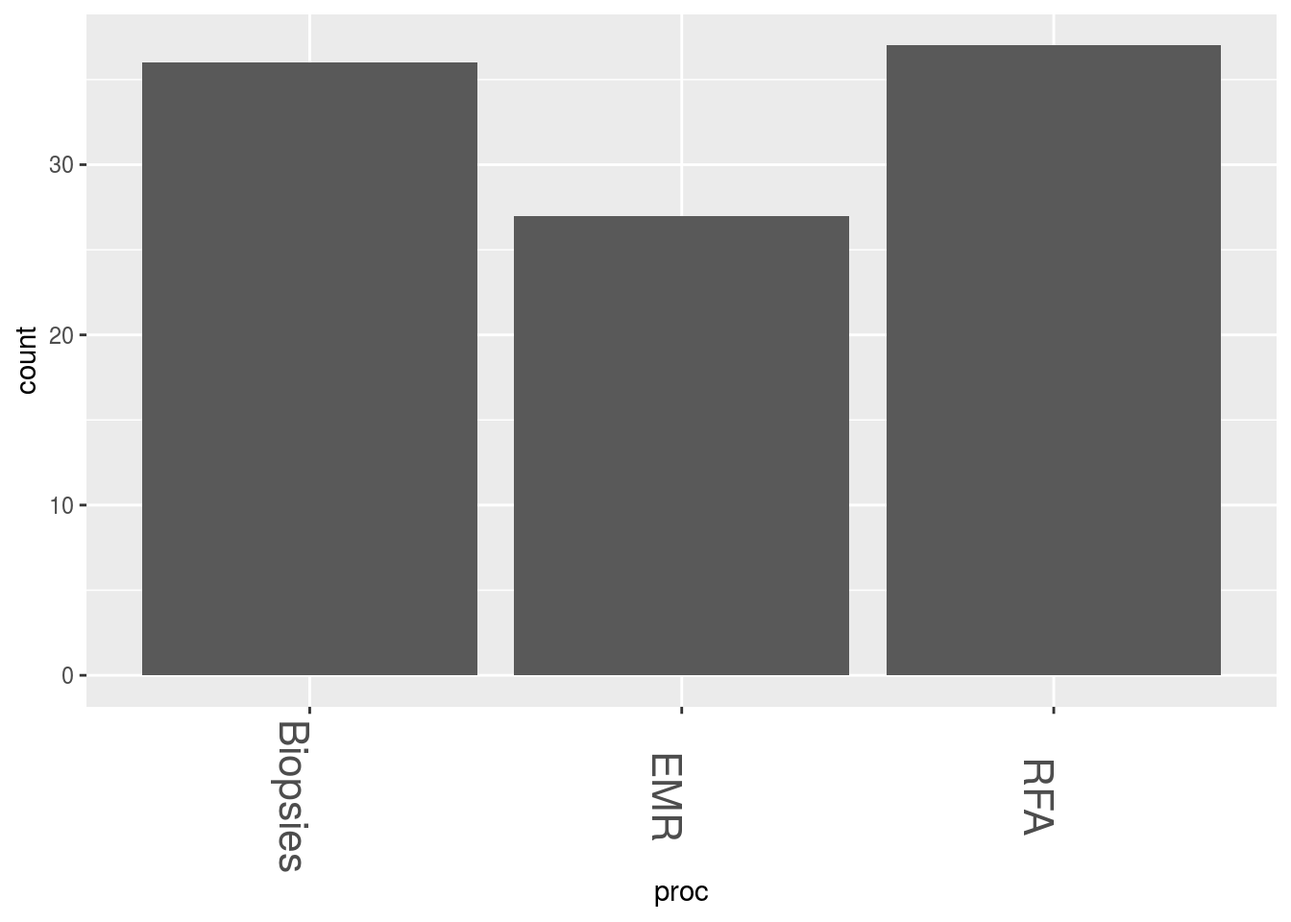
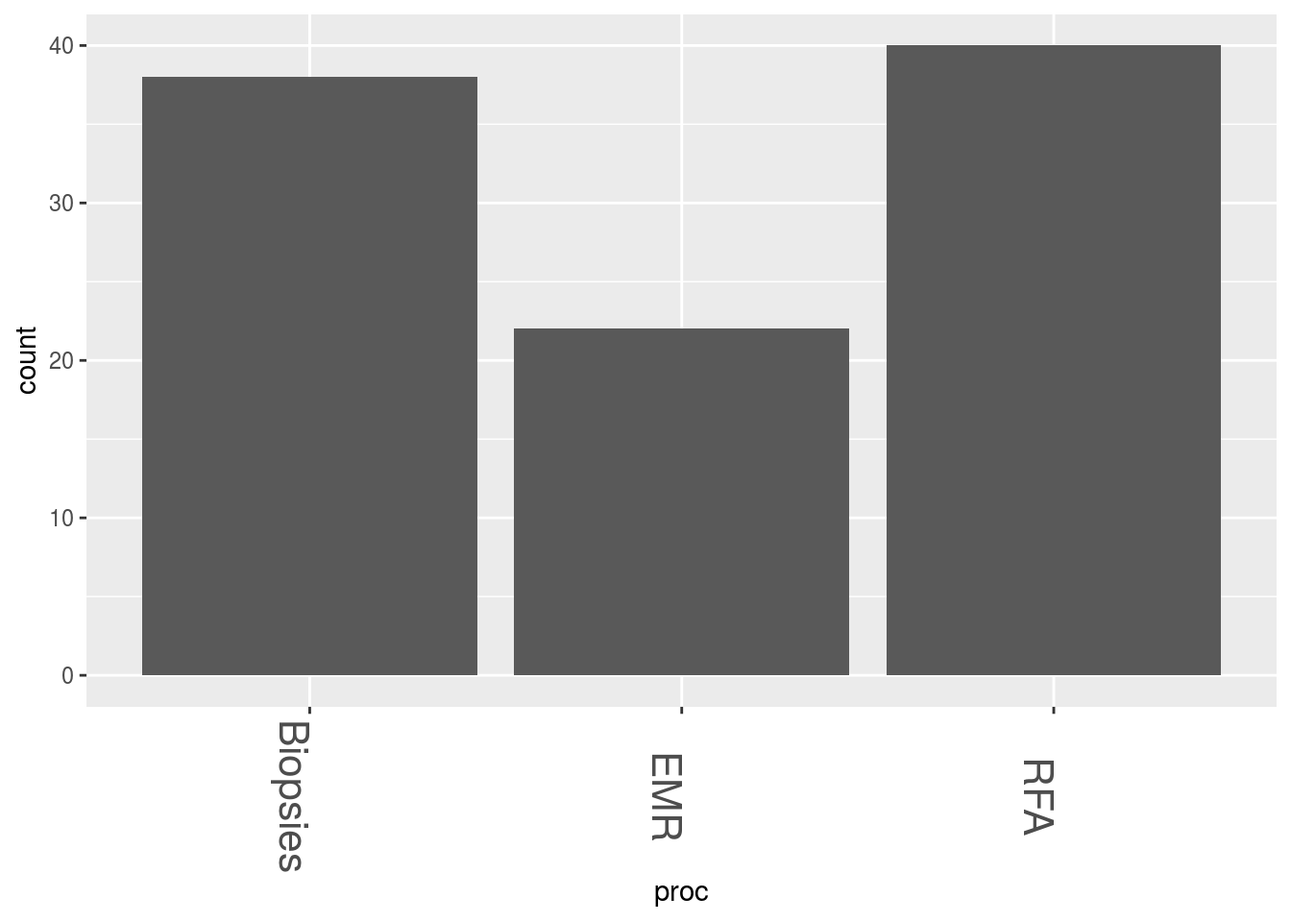
More here

diff --git a/docs/DataVisualisationsggplot.html b/docs/DataVisualisationsggplot.html
@@ -465,10 +465,10 @@ avg
 2013
 </td>
 <td style="text-align:right;">
-26
+25
 </td>
 <td style="text-align:right;">
-17.84615
+20.44000
 </td>
 </tr>
 <tr>
@@ -476,10 +476,10 @@ avg
 2014
 </td>
 <td style="text-align:right;">
-27
+23
 </td>
 <td style="text-align:right;">
-21.70370
+17.95652
 </td>
 </tr>
 <tr>
@@ -487,10 +487,10 @@ avg
 2015
 </td>
 <td style="text-align:right;">
-17
+26
 </td>
 <td style="text-align:right;">
-19.00000
+23.84615
 </td>
 </tr>
 <tr>
@@ -498,10 +498,10 @@ avg
 2016
 </td>
 <td style="text-align:right;">
-24
+21
 </td>
 <td style="text-align:right;">
-19.25000
+24.19048
 </td>
 </tr>
 <tr>
@@ -509,10 +509,10 @@ avg
 2017
 </td>
 <td style="text-align:right;">
-6
+5
 </td>
 <td style="text-align:right;">
-17.66667
+18.20000
 </td>
 </tr>
 </tbody>
@@ -589,8 +589,8 @@ Tots2$proc &lt;- factor(Tots2$proc, levels=c(&quot;EMR&quot;, &quot;Biopsies&quo
 <pre class="r"><code>library(dygraphs)
 dygraph(nhtemp, main = &quot;New Haven Temperatures&quot;) %&gt;% 
   dyRangeSelector(dateWindow = c(&quot;1920-01-01&quot;, &quot;1960-01-01&quot;))</code></pre>
-<div id="htmlwidget-75bc4059a6bbdcd897e7" style="width:672px;height:480px;" class="dygraphs html-widget"></div>
-<script type="application/json" data-for="htmlwidget-75bc4059a6bbdcd897e7">{"x":{"attrs":{"title":"New Haven Temperatures","labels":["year","V1"],"legend":"auto","retainDateWindow":false,"axes":{"x":{"pixelsPerLabel":60}},"showRangeSelector":true,"dateWindow":["1920-01-01T00:00:00.000Z","1960-01-01T00:00:00.000Z"],"rangeSelectorHeight":40,"rangeSelectorPlotFillColor":" #A7B1C4","rangeSelectorPlotStrokeColor":"#808FAB","interactionModel":"Dygraph.Interaction.defaultModel"},"scale":"yearly","annotations":[],"shadings":[],"events":[],"format":"date","data":[["1912-01-01T00:00:00.000Z","1913-01-01T00:00:00.000Z","1914-01-01T00:00:00.000Z","1915-01-01T00:00:00.000Z","1916-01-01T00:00:00.000Z","1917-01-01T00:00:00.000Z","1918-01-01T00:00:00.000Z","1919-01-01T00:00:00.000Z","1920-01-01T00:00:00.000Z","1921-01-01T00:00:00.000Z","1922-01-01T00:00:00.000Z","1923-01-01T00:00:00.000Z","1924-01-01T00:00:00.000Z","1925-01-01T00:00:00.000Z","1926-01-01T00:00:00.000Z","1927-01-01T00:00:00.000Z","1928-01-01T00:00:00.000Z","1929-01-01T00:00:00.000Z","1930-01-01T00:00:00.000Z","1931-01-01T00:00:00.000Z","1932-01-01T00:00:00.000Z","1933-01-01T00:00:00.000Z","1934-01-01T00:00:00.000Z","1935-01-01T00:00:00.000Z","1936-01-01T00:00:00.000Z","1937-01-01T00:00:00.000Z","1938-01-01T00:00:00.000Z","1939-01-01T00:00:00.000Z","1940-01-01T00:00:00.000Z","1941-01-01T00:00:00.000Z","1942-01-01T00:00:00.000Z","1943-01-01T00:00:00.000Z","1944-01-01T00:00:00.000Z","1945-01-01T00:00:00.000Z","1946-01-01T00:00:00.000Z","1947-01-01T00:00:00.000Z","1948-01-01T00:00:00.000Z","1949-01-01T00:00:00.000Z","1950-01-01T00:00:00.000Z","1951-01-01T00:00:00.000Z","1952-01-01T00:00:00.000Z","1953-01-01T00:00:00.000Z","1954-01-01T00:00:00.000Z","1955-01-01T00:00:00.000Z","1956-01-01T00:00:00.000Z","1957-01-01T00:00:00.000Z","1958-01-01T00:00:00.000Z","1959-01-01T00:00:00.000Z","1960-01-01T00:00:00.000Z","1961-01-01T00:00:00.000Z","1962-01-01T00:00:00.000Z","1963-01-01T00:00:00.000Z","1964-01-01T00:00:00.000Z","1965-01-01T00:00:00.000Z","1966-01-01T00:00:00.000Z","1967-01-01T00:00:00.000Z","1968-01-01T00:00:00.000Z","1969-01-01T00:00:00.000Z","1970-01-01T00:00:00.000Z","1971-01-01T00:00:00.000Z"],[49.9,52.3,49.4,51.1,49.4,47.9,49.8,50.9,49.3,51.9,50.8,49.6,49.3,50.6,48.4,50.7,50.9,50.6,51.5,52.8,51.8,51.1,49.8,50.2,50.4,51.6,51.8,50.9,48.8,51.7,51,50.6,51.7,51.5,52.1,51.3,51,54,51.4,52.7,53.1,54.6,52,52,50.9,52.6,50.2,52.6,51.6,51.9,50.5,50.9,51.7,51.4,51.7,50.8,51.9,51.8,51.9,53]]},"evals":["attrs.interactionModel"],"jsHooks":[]}</script>
+<div id="htmlwidget-f0e14a4b9bac89a1261e" style="width:672px;height:480px;" class="dygraphs html-widget"></div>
+<script type="application/json" data-for="htmlwidget-f0e14a4b9bac89a1261e">{"x":{"attrs":{"title":"New Haven Temperatures","labels":["year","V1"],"legend":"auto","retainDateWindow":false,"axes":{"x":{"pixelsPerLabel":60}},"showRangeSelector":true,"dateWindow":["1920-01-01T00:00:00.000Z","1960-01-01T00:00:00.000Z"],"rangeSelectorHeight":40,"rangeSelectorPlotFillColor":" #A7B1C4","rangeSelectorPlotStrokeColor":"#808FAB","interactionModel":"Dygraph.Interaction.defaultModel"},"scale":"yearly","annotations":[],"shadings":[],"events":[],"format":"date","data":[["1912-01-01T00:00:00.000Z","1913-01-01T00:00:00.000Z","1914-01-01T00:00:00.000Z","1915-01-01T00:00:00.000Z","1916-01-01T00:00:00.000Z","1917-01-01T00:00:00.000Z","1918-01-01T00:00:00.000Z","1919-01-01T00:00:00.000Z","1920-01-01T00:00:00.000Z","1921-01-01T00:00:00.000Z","1922-01-01T00:00:00.000Z","1923-01-01T00:00:00.000Z","1924-01-01T00:00:00.000Z","1925-01-01T00:00:00.000Z","1926-01-01T00:00:00.000Z","1927-01-01T00:00:00.000Z","1928-01-01T00:00:00.000Z","1929-01-01T00:00:00.000Z","1930-01-01T00:00:00.000Z","1931-01-01T00:00:00.000Z","1932-01-01T00:00:00.000Z","1933-01-01T00:00:00.000Z","1934-01-01T00:00:00.000Z","1935-01-01T00:00:00.000Z","1936-01-01T00:00:00.000Z","1937-01-01T00:00:00.000Z","1938-01-01T00:00:00.000Z","1939-01-01T00:00:00.000Z","1940-01-01T00:00:00.000Z","1941-01-01T00:00:00.000Z","1942-01-01T00:00:00.000Z","1943-01-01T00:00:00.000Z","1944-01-01T00:00:00.000Z","1945-01-01T00:00:00.000Z","1946-01-01T00:00:00.000Z","1947-01-01T00:00:00.000Z","1948-01-01T00:00:00.000Z","1949-01-01T00:00:00.000Z","1950-01-01T00:00:00.000Z","1951-01-01T00:00:00.000Z","1952-01-01T00:00:00.000Z","1953-01-01T00:00:00.000Z","1954-01-01T00:00:00.000Z","1955-01-01T00:00:00.000Z","1956-01-01T00:00:00.000Z","1957-01-01T00:00:00.000Z","1958-01-01T00:00:00.000Z","1959-01-01T00:00:00.000Z","1960-01-01T00:00:00.000Z","1961-01-01T00:00:00.000Z","1962-01-01T00:00:00.000Z","1963-01-01T00:00:00.000Z","1964-01-01T00:00:00.000Z","1965-01-01T00:00:00.000Z","1966-01-01T00:00:00.000Z","1967-01-01T00:00:00.000Z","1968-01-01T00:00:00.000Z","1969-01-01T00:00:00.000Z","1970-01-01T00:00:00.000Z","1971-01-01T00:00:00.000Z"],[49.9,52.3,49.4,51.1,49.4,47.9,49.8,50.9,49.3,51.9,50.8,49.6,49.3,50.6,48.4,50.7,50.9,50.6,51.5,52.8,51.8,51.1,49.8,50.2,50.4,51.6,51.8,50.9,48.8,51.7,51,50.6,51.7,51.5,52.1,51.3,51,54,51.4,52.7,53.1,54.6,52,52,50.9,52.6,50.2,52.6,51.6,51.9,50.5,50.9,51.7,51.4,51.7,50.8,51.9,51.8,51.9,53]]},"evals":["attrs.interactionModel"],"jsHooks":[]}</script>
 <p><br><br></p>
 </div>
 <div id="highcharts" class="section level3">
@@ -601,8 +601,8 @@ library(highcharter)
 highchart() %&gt;% 
   hc_title(text = &quot;Scatter chart with size and color&quot;) %&gt;% 
    hc_add_series(mtcars, &quot;scatter&quot;, hcaes(x = wt, y = mpg, size  = drat, color = hp))</code></pre>
-<div id="htmlwidget-aca12608c7f12dcc43c7" style="width:100%;height:500px;" class="highchart html-widget"></div>
-<script type="application/json" data-for="htmlwidget-aca12608c7f12dcc43c7">{"x":{"hc_opts":{"title":{"text":"Scatter chart with size and color"},"yAxis":{"title":{"text":null}},"credits":{"enabled":false},"exporting":{"enabled":false},"plotOptions":{"series":{"label":{"enabled":false},"turboThreshold":0},"treemap":{"layoutAlgorithm":"squarified"}},"series":[{"group":"group","data":[{"mpg":21,"cyl":6,"disp":160,"hp":110,"drat":3.9,"wt":2.62,"qsec":16.46,"vs":0,"am":1,"gear":4,"carb":4,"x":2.62,"y":21,"size":3.9,"color":"#267B84","colorv":110,"z":3.9},{"mpg":21,"cyl":6,"disp":160,"hp":110,"drat":3.9,"wt":2.875,"qsec":17.02,"vs":0,"am":1,"gear":4,"carb":4,"x":2.875,"y":21,"size":3.9,"color":"#267B84","colorv":110,"z":3.9},{"mpg":22.8,"cyl":4,"disp":108,"hp":93,"drat":3.85,"wt":2.32,"qsec":18.61,"vs":1,"am":1,"gear":4,"carb":1,"x":2.32,"y":22.8,"size":3.85,"color":"#363769","colorv":93,"z":3.85},{"mpg":21.4,"cyl":6,"disp":258,"hp":110,"drat":3.08,"wt":3.215,"qsec":19.44,"vs":1,"am":0,"gear":3,"carb":1,"x":3.215,"y":21.4,"size":3.08,"color":"#267B84","colorv":110,"z":3.08},{"mpg":18.7,"cyl":8,"disp":360,"hp":175,"drat":3.15,"wt":3.44,"qsec":17.02,"vs":0,"am":0,"gear":3,"carb":2,"x":3.44,"y":18.7,"size":3.15,"color":"#7FB55F","colorv":175,"z":3.15},{"mpg":18.1,"cyl":6,"disp":225,"hp":105,"drat":2.76,"wt":3.46,"qsec":20.22,"vs":1,"am":0,"gear":3,"carb":1,"x":3.46,"y":18.1,"size":2.76,"color":"#305274","colorv":105,"z":2.76},{"mpg":14.3,"cyl":8,"disp":360,"hp":245,"drat":3.21,"wt":3.57,"qsec":15.84,"vs":0,"am":0,"gear":3,"carb":4,"x":3.57,"y":14.3,"size":3.21,"color":"#E8DE2E","colorv":245,"z":3.21},{"mpg":24.4,"cyl":4,"disp":146.7,"hp":62,"drat":3.69,"wt":3.19,"qsec":20,"vs":1,"am":0,"gear":4,"carb":2,"x":3.19,"y":24.4,"size":3.69,"color":"#400E59","colorv":62,"z":3.69},{"mpg":22.8,"cyl":4,"disp":140.8,"hp":95,"drat":3.92,"wt":3.15,"qsec":22.9,"vs":1,"am":0,"gear":4,"carb":2,"x":3.15,"y":22.8,"size":3.92,"color":"#33456E","colorv":95,"z":3.92},{"mpg":19.2,"cyl":6,"disp":167.6,"hp":123,"drat":3.92,"wt":3.44,"qsec":18.3,"vs":1,"am":0,"gear":4,"carb":4,"x":3.44,"y":19.2,"size":3.92,"color":"#2B9487","colorv":123,"z":3.92},{"mpg":17.8,"cyl":6,"disp":167.6,"hp":123,"drat":3.92,"wt":3.44,"qsec":18.9,"vs":1,"am":0,"gear":4,"carb":4,"x":3.44,"y":17.8,"size":3.92,"color":"#2B9487","colorv":123,"z":3.92},{"mpg":16.4,"cyl":8,"disp":275.8,"hp":180,"drat":3.07,"wt":4.07,"qsec":17.4,"vs":0,"am":0,"gear":3,"carb":3,"x":4.07,"y":16.4,"size":3.07,"color":"#A9C54C","colorv":180,"z":3.07},{"mpg":17.3,"cyl":8,"disp":275.8,"hp":180,"drat":3.07,"wt":3.73,"qsec":17.6,"vs":0,"am":0,"gear":3,"carb":3,"x":3.73,"y":17.3,"size":3.07,"color":"#A9C54C","colorv":180,"z":3.07},{"mpg":15.2,"cyl":8,"disp":275.8,"hp":180,"drat":3.07,"wt":3.78,"qsec":18,"vs":0,"am":0,"gear":3,"carb":3,"x":3.78,"y":15.2,"size":3.07,"color":"#A9C54C","colorv":180,"z":3.07},{"mpg":10.4,"cyl":8,"disp":472,"hp":205,"drat":2.93,"wt":5.25,"qsec":17.98,"vs":0,"am":0,"gear":3,"carb":4,"x":5.25,"y":10.4,"size":2.93,"color":"#A9C54C","colorv":205,"z":2.93},{"mpg":10.4,"cyl":8,"disp":460,"hp":215,"drat":3,"wt":5.424,"qsec":17.82,"vs":0,"am":0,"gear":3,"carb":4,"x":5.424,"y":10.4,"size":3,"color":"#BECE42","colorv":215,"z":3},{"mpg":14.7,"cyl":8,"disp":440,"hp":230,"drat":3.23,"wt":5.345,"qsec":17.42,"vs":0,"am":0,"gear":3,"carb":4,"x":5.345,"y":14.7,"size":3.23,"color":"#D3D638","colorv":230,"z":3.23},{"mpg":32.4,"cyl":4,"disp":78.7,"hp":66,"drat":4.08,"wt":2.2,"qsec":19.47,"vs":1,"am":1,"gear":4,"carb":1,"x":2.2,"y":32.4,"size":4.08,"color":"#3A2964","colorv":66,"z":4.08},{"mpg":30.4,"cyl":4,"disp":75.7,"hp":52,"drat":4.93,"wt":1.615,"qsec":18.52,"vs":1,"am":1,"gear":4,"carb":2,"x":1.615,"y":30.4,"size":4.93,"color":"#440154","colorv":52,"z":4.93},{"mpg":33.9,"cyl":4,"disp":71.1,"hp":65,"drat":4.22,"wt":1.835,"qsec":19.9,"vs":1,"am":1,"gear":4,"carb":1,"x":1.835,"y":33.9,"size":4.22,"color":"#3D1C5E","colorv":65,"z":4.22},{"mpg":21.5,"cyl":4,"disp":120.1,"hp":97,"drat":3.7,"wt":2.465,"qsec":20.01,"vs":1,"am":0,"gear":3,"carb":1,"x":2.465,"y":21.5,"size":3.7,"color":"#305274","colorv":97,"z":3.7},{"mpg":15.5,"cyl":8,"disp":318,"hp":150,"drat":2.76,"wt":3.52,"qsec":16.87,"vs":0,"am":0,"gear":3,"carb":2,"x":3.52,"y":15.5,"size":2.76,"color":"#55A473","colorv":150,"z":2.76},{"mpg":15.2,"cyl":8,"disp":304,"hp":150,"drat":3.15,"wt":3.435,"qsec":17.3,"vs":0,"am":0,"gear":3,"carb":2,"x":3.435,"y":15.2,"size":3.15,"color":"#55A473","colorv":150,"z":3.15},{"mpg":13.3,"cyl":8,"disp":350,"hp":245,"drat":3.73,"wt":3.84,"qsec":15.41,"vs":0,"am":0,"gear":3,"carb":4,"x":3.84,"y":13.3,"size":3.73,"color":"#E8DE2E","colorv":245,"z":3.73},{"mpg":19.2,"cyl":8,"disp":400,"hp":175,"drat":3.08,"wt":3.845,"qsec":17.05,"vs":0,"am":0,"gear":3,"carb":2,"x":3.845,"y":19.2,"size":3.08,"color":"#7FB55F","colorv":175,"z":3.08},{"mpg":27.3,"cyl":4,"disp":79,"hp":66,"drat":4.08,"wt":1.935,"qsec":18.9,"vs":1,"am":1,"gear":4,"carb":1,"x":1.935,"y":27.3,"size":4.08,"color":"#3A2964","colorv":66,"z":4.08},{"mpg":26,"cyl":4,"disp":120.3,"hp":91,"drat":4.43,"wt":2.14,"qsec":16.7,"vs":0,"am":1,"gear":5,"carb":2,"x":2.14,"y":26,"size":4.43,"color":"#363769","colorv":91,"z":4.43},{"mpg":30.4,"cyl":4,"disp":95.1,"hp":113,"drat":3.77,"wt":1.513,"qsec":16.9,"vs":1,"am":1,"gear":5,"carb":2,"x":1.513,"y":30.4,"size":3.77,"color":"#228989","colorv":113,"z":3.77},{"mpg":15.8,"cyl":8,"disp":351,"hp":264,"drat":4.22,"wt":3.17,"qsec":14.5,"vs":0,"am":1,"gear":5,"carb":4,"x":3.17,"y":15.8,"size":4.22,"color":"#FDE725","colorv":264,"z":4.22},{"mpg":19.7,"cyl":6,"disp":145,"hp":175,"drat":3.62,"wt":2.77,"qsec":15.5,"vs":0,"am":1,"gear":5,"carb":6,"x":2.77,"y":19.7,"size":3.62,"color":"#7FB55F","colorv":175,"z":3.62},{"mpg":15,"cyl":8,"disp":301,"hp":335,"drat":3.54,"wt":3.57,"qsec":14.6,"vs":0,"am":1,"gear":5,"carb":8,"x":3.57,"y":15,"size":3.54,"color":"#FDE725","colorv":335,"z":3.54},{"mpg":21.4,"cyl":4,"disp":121,"hp":109,"drat":4.11,"wt":2.78,"qsec":18.6,"vs":1,"am":1,"gear":4,"carb":2,"x":2.78,"y":21.4,"size":4.11,"color":"#2C6079","colorv":109,"z":4.11}],"type":"bubble"}]},"theme":{"chart":{"backgroundColor":"transparent"}},"conf_opts":{"global":{"Date":null,"VMLRadialGradientURL":"http =//code.highcharts.com/list(version)/gfx/vml-radial-gradient.png","canvasToolsURL":"http =//code.highcharts.com/list(version)/modules/canvas-tools.js","getTimezoneOffset":null,"timezoneOffset":0,"useUTC":true},"lang":{"contextButtonTitle":"Chart context menu","decimalPoint":".","downloadJPEG":"Download JPEG image","downloadPDF":"Download PDF document","downloadPNG":"Download PNG image","downloadSVG":"Download SVG vector image","drillUpText":"Back to {series.name}","invalidDate":null,"loading":"Loading...","months":["January","February","March","April","May","June","July","August","September","October","November","December"],"noData":"No data to display","numericSymbols":["k","M","G","T","P","E"],"printChart":"Print chart","resetZoom":"Reset zoom","resetZoomTitle":"Reset zoom level 1:1","shortMonths":["Jan","Feb","Mar","Apr","May","Jun","Jul","Aug","Sep","Oct","Nov","Dec"],"thousandsSep":" ","weekdays":["Sunday","Monday","Tuesday","Wednesday","Thursday","Friday","Saturday"]}},"type":"chart","fonts":[],"debug":false},"evals":[],"jsHooks":[]}</script>
+<div id="htmlwidget-61dfafb1939d8ca60830" style="width:100%;height:500px;" class="highchart html-widget"></div>
+<script type="application/json" data-for="htmlwidget-61dfafb1939d8ca60830">{"x":{"hc_opts":{"title":{"text":"Scatter chart with size and color"},"yAxis":{"title":{"text":null}},"credits":{"enabled":false},"exporting":{"enabled":false},"plotOptions":{"series":{"label":{"enabled":false},"turboThreshold":0},"treemap":{"layoutAlgorithm":"squarified"}},"series":[{"group":"group","data":[{"mpg":21,"cyl":6,"disp":160,"hp":110,"drat":3.9,"wt":2.62,"qsec":16.46,"vs":0,"am":1,"gear":4,"carb":4,"x":2.62,"y":21,"size":3.9,"color":"#267B84","colorv":110,"z":3.9},{"mpg":21,"cyl":6,"disp":160,"hp":110,"drat":3.9,"wt":2.875,"qsec":17.02,"vs":0,"am":1,"gear":4,"carb":4,"x":2.875,"y":21,"size":3.9,"color":"#267B84","colorv":110,"z":3.9},{"mpg":22.8,"cyl":4,"disp":108,"hp":93,"drat":3.85,"wt":2.32,"qsec":18.61,"vs":1,"am":1,"gear":4,"carb":1,"x":2.32,"y":22.8,"size":3.85,"color":"#363769","colorv":93,"z":3.85},{"mpg":21.4,"cyl":6,"disp":258,"hp":110,"drat":3.08,"wt":3.215,"qsec":19.44,"vs":1,"am":0,"gear":3,"carb":1,"x":3.215,"y":21.4,"size":3.08,"color":"#267B84","colorv":110,"z":3.08},{"mpg":18.7,"cyl":8,"disp":360,"hp":175,"drat":3.15,"wt":3.44,"qsec":17.02,"vs":0,"am":0,"gear":3,"carb":2,"x":3.44,"y":18.7,"size":3.15,"color":"#7FB55F","colorv":175,"z":3.15},{"mpg":18.1,"cyl":6,"disp":225,"hp":105,"drat":2.76,"wt":3.46,"qsec":20.22,"vs":1,"am":0,"gear":3,"carb":1,"x":3.46,"y":18.1,"size":2.76,"color":"#305274","colorv":105,"z":2.76},{"mpg":14.3,"cyl":8,"disp":360,"hp":245,"drat":3.21,"wt":3.57,"qsec":15.84,"vs":0,"am":0,"gear":3,"carb":4,"x":3.57,"y":14.3,"size":3.21,"color":"#E8DE2E","colorv":245,"z":3.21},{"mpg":24.4,"cyl":4,"disp":146.7,"hp":62,"drat":3.69,"wt":3.19,"qsec":20,"vs":1,"am":0,"gear":4,"carb":2,"x":3.19,"y":24.4,"size":3.69,"color":"#400E59","colorv":62,"z":3.69},{"mpg":22.8,"cyl":4,"disp":140.8,"hp":95,"drat":3.92,"wt":3.15,"qsec":22.9,"vs":1,"am":0,"gear":4,"carb":2,"x":3.15,"y":22.8,"size":3.92,"color":"#33456E","colorv":95,"z":3.92},{"mpg":19.2,"cyl":6,"disp":167.6,"hp":123,"drat":3.92,"wt":3.44,"qsec":18.3,"vs":1,"am":0,"gear":4,"carb":4,"x":3.44,"y":19.2,"size":3.92,"color":"#2B9487","colorv":123,"z":3.92},{"mpg":17.8,"cyl":6,"disp":167.6,"hp":123,"drat":3.92,"wt":3.44,"qsec":18.9,"vs":1,"am":0,"gear":4,"carb":4,"x":3.44,"y":17.8,"size":3.92,"color":"#2B9487","colorv":123,"z":3.92},{"mpg":16.4,"cyl":8,"disp":275.8,"hp":180,"drat":3.07,"wt":4.07,"qsec":17.4,"vs":0,"am":0,"gear":3,"carb":3,"x":4.07,"y":16.4,"size":3.07,"color":"#A9C54C","colorv":180,"z":3.07},{"mpg":17.3,"cyl":8,"disp":275.8,"hp":180,"drat":3.07,"wt":3.73,"qsec":17.6,"vs":0,"am":0,"gear":3,"carb":3,"x":3.73,"y":17.3,"size":3.07,"color":"#A9C54C","colorv":180,"z":3.07},{"mpg":15.2,"cyl":8,"disp":275.8,"hp":180,"drat":3.07,"wt":3.78,"qsec":18,"vs":0,"am":0,"gear":3,"carb":3,"x":3.78,"y":15.2,"size":3.07,"color":"#A9C54C","colorv":180,"z":3.07},{"mpg":10.4,"cyl":8,"disp":472,"hp":205,"drat":2.93,"wt":5.25,"qsec":17.98,"vs":0,"am":0,"gear":3,"carb":4,"x":5.25,"y":10.4,"size":2.93,"color":"#A9C54C","colorv":205,"z":2.93},{"mpg":10.4,"cyl":8,"disp":460,"hp":215,"drat":3,"wt":5.424,"qsec":17.82,"vs":0,"am":0,"gear":3,"carb":4,"x":5.424,"y":10.4,"size":3,"color":"#BECE42","colorv":215,"z":3},{"mpg":14.7,"cyl":8,"disp":440,"hp":230,"drat":3.23,"wt":5.345,"qsec":17.42,"vs":0,"am":0,"gear":3,"carb":4,"x":5.345,"y":14.7,"size":3.23,"color":"#D3D638","colorv":230,"z":3.23},{"mpg":32.4,"cyl":4,"disp":78.7,"hp":66,"drat":4.08,"wt":2.2,"qsec":19.47,"vs":1,"am":1,"gear":4,"carb":1,"x":2.2,"y":32.4,"size":4.08,"color":"#3A2964","colorv":66,"z":4.08},{"mpg":30.4,"cyl":4,"disp":75.7,"hp":52,"drat":4.93,"wt":1.615,"qsec":18.52,"vs":1,"am":1,"gear":4,"carb":2,"x":1.615,"y":30.4,"size":4.93,"color":"#440154","colorv":52,"z":4.93},{"mpg":33.9,"cyl":4,"disp":71.1,"hp":65,"drat":4.22,"wt":1.835,"qsec":19.9,"vs":1,"am":1,"gear":4,"carb":1,"x":1.835,"y":33.9,"size":4.22,"color":"#3D1C5E","colorv":65,"z":4.22},{"mpg":21.5,"cyl":4,"disp":120.1,"hp":97,"drat":3.7,"wt":2.465,"qsec":20.01,"vs":1,"am":0,"gear":3,"carb":1,"x":2.465,"y":21.5,"size":3.7,"color":"#305274","colorv":97,"z":3.7},{"mpg":15.5,"cyl":8,"disp":318,"hp":150,"drat":2.76,"wt":3.52,"qsec":16.87,"vs":0,"am":0,"gear":3,"carb":2,"x":3.52,"y":15.5,"size":2.76,"color":"#55A473","colorv":150,"z":2.76},{"mpg":15.2,"cyl":8,"disp":304,"hp":150,"drat":3.15,"wt":3.435,"qsec":17.3,"vs":0,"am":0,"gear":3,"carb":2,"x":3.435,"y":15.2,"size":3.15,"color":"#55A473","colorv":150,"z":3.15},{"mpg":13.3,"cyl":8,"disp":350,"hp":245,"drat":3.73,"wt":3.84,"qsec":15.41,"vs":0,"am":0,"gear":3,"carb":4,"x":3.84,"y":13.3,"size":3.73,"color":"#E8DE2E","colorv":245,"z":3.73},{"mpg":19.2,"cyl":8,"disp":400,"hp":175,"drat":3.08,"wt":3.845,"qsec":17.05,"vs":0,"am":0,"gear":3,"carb":2,"x":3.845,"y":19.2,"size":3.08,"color":"#7FB55F","colorv":175,"z":3.08},{"mpg":27.3,"cyl":4,"disp":79,"hp":66,"drat":4.08,"wt":1.935,"qsec":18.9,"vs":1,"am":1,"gear":4,"carb":1,"x":1.935,"y":27.3,"size":4.08,"color":"#3A2964","colorv":66,"z":4.08},{"mpg":26,"cyl":4,"disp":120.3,"hp":91,"drat":4.43,"wt":2.14,"qsec":16.7,"vs":0,"am":1,"gear":5,"carb":2,"x":2.14,"y":26,"size":4.43,"color":"#363769","colorv":91,"z":4.43},{"mpg":30.4,"cyl":4,"disp":95.1,"hp":113,"drat":3.77,"wt":1.513,"qsec":16.9,"vs":1,"am":1,"gear":5,"carb":2,"x":1.513,"y":30.4,"size":3.77,"color":"#228989","colorv":113,"z":3.77},{"mpg":15.8,"cyl":8,"disp":351,"hp":264,"drat":4.22,"wt":3.17,"qsec":14.5,"vs":0,"am":1,"gear":5,"carb":4,"x":3.17,"y":15.8,"size":4.22,"color":"#FDE725","colorv":264,"z":4.22},{"mpg":19.7,"cyl":6,"disp":145,"hp":175,"drat":3.62,"wt":2.77,"qsec":15.5,"vs":0,"am":1,"gear":5,"carb":6,"x":2.77,"y":19.7,"size":3.62,"color":"#7FB55F","colorv":175,"z":3.62},{"mpg":15,"cyl":8,"disp":301,"hp":335,"drat":3.54,"wt":3.57,"qsec":14.6,"vs":0,"am":1,"gear":5,"carb":8,"x":3.57,"y":15,"size":3.54,"color":"#FDE725","colorv":335,"z":3.54},{"mpg":21.4,"cyl":4,"disp":121,"hp":109,"drat":4.11,"wt":2.78,"qsec":18.6,"vs":1,"am":1,"gear":4,"carb":2,"x":2.78,"y":21.4,"size":4.11,"color":"#2C6079","colorv":109,"z":4.11}],"type":"bubble"}]},"theme":{"chart":{"backgroundColor":"transparent"}},"conf_opts":{"global":{"Date":null,"VMLRadialGradientURL":"http =//code.highcharts.com/list(version)/gfx/vml-radial-gradient.png","canvasToolsURL":"http =//code.highcharts.com/list(version)/modules/canvas-tools.js","getTimezoneOffset":null,"timezoneOffset":0,"useUTC":true},"lang":{"contextButtonTitle":"Chart context menu","decimalPoint":".","downloadJPEG":"Download JPEG image","downloadPDF":"Download PDF document","downloadPNG":"Download PNG image","downloadSVG":"Download SVG vector image","drillUpText":"Back to {series.name}","invalidDate":null,"loading":"Loading...","months":["January","February","March","April","May","June","July","August","September","October","November","December"],"noData":"No data to display","numericSymbols":["k","M","G","T","P","E"],"printChart":"Print chart","resetZoom":"Reset zoom","resetZoomTitle":"Reset zoom level 1:1","shortMonths":["Jan","Feb","Mar","Apr","May","Jun","Jul","Aug","Sep","Oct","Nov","Dec"],"thousandsSep":" ","weekdays":["Sunday","Monday","Tuesday","Wednesday","Thursday","Friday","Saturday"]}},"type":"chart","fonts":[],"debug":false},"evals":[],"jsHooks":[]}</script>
 <p><br><br></p>
 </div>
 <div id="network-d3" class="section level3">
@@ -613,8 +613,8 @@ data(MisLinks, MisNodes)
 forceNetwork(Links = MisLinks, Nodes = MisNodes, Source = &quot;source&quot;,
              Target = &quot;target&quot;, Value = &quot;value&quot;, NodeID = &quot;name&quot;,
              Group = &quot;group&quot;, opacity = 0.4)</code></pre>
-<div id="htmlwidget-72e3497d71ce01e77a46" style="width:672px;height:480px;" class="forceNetwork html-widget"></div>
-<script type="application/json" data-for="htmlwidget-72e3497d71ce01e77a46">{"x":{"links":{"source":[1,2,3,3,4,5,6,7,8,9,11,11,11,11,12,13,14,15,17,18,18,19,19,19,20,20,20,20,21,21,21,21,21,22,22,22,22,22,22,23,23,23,23,23,23,23,23,23,24,24,25,25,25,26,26,26,26,27,27,27,27,27,28,28,29,29,29,30,31,31,31,31,32,33,33,34,34,35,35,35,36,36,36,36,37,37,37,37,37,38,38,38,38,38,38,39,40,41,41,42,42,42,43,43,43,44,44,45,47,48,48,48,48,49,49,50,50,51,51,51,52,52,53,54,54,54,55,55,55,55,55,55,55,55,55,55,56,56,57,57,57,58,58,58,58,58,59,59,59,59,60,60,60,61,61,61,61,61,61,62,62,62,62,62,62,62,62,63,63,63,63,63,63,63,63,64,64,64,64,64,64,64,64,64,64,65,65,65,65,65,65,65,65,65,65,66,66,66,66,66,66,66,66,66,67,68,68,68,68,68,68,69,69,69,69,69,69,69,70,70,70,70,70,70,70,70,71,71,71,71,71,71,71,71,72,72,72,73,74,74,75,75,75,75,75,75,75,76,76,76,76,76,76,76],"target":[0,0,0,2,0,0,0,0,0,0,10,3,2,0,11,11,11,11,16,16,17,16,17,18,16,17,18,19,16,17,18,19,20,16,17,18,19,20,21,16,17,18,19,20,21,22,12,11,23,11,24,23,11,24,11,16,25,11,23,25,24,26,11,27,23,27,11,23,30,11,23,27,11,11,27,11,29,11,34,29,34,35,11,29,34,35,36,11,29,34,35,36,37,11,29,25,25,24,25,41,25,24,11,26,27,28,11,28,46,47,25,27,11,26,11,49,24,49,26,11,51,39,51,51,49,26,51,49,39,54,26,11,16,25,41,48,49,55,55,41,48,55,48,27,57,11,58,55,48,57,48,58,59,48,58,60,59,57,55,55,58,59,48,57,41,61,60,59,48,62,57,58,61,60,55,55,62,48,63,58,61,60,59,57,11,63,64,48,62,58,61,60,59,57,55,64,58,59,62,65,48,63,61,60,57,25,11,24,27,48,41,25,68,11,24,27,48,41,25,69,68,11,24,27,41,58,27,69,68,70,11,48,41,25,26,27,11,48,48,73,69,68,25,48,41,70,71,64,65,66,63,62,48,58],"value":[1,8,10,6,1,1,1,1,2,1,1,3,3,5,1,1,1,1,4,4,4,4,4,4,3,3,3,4,3,3,3,3,5,3,3,3,3,4,4,3,3,3,3,4,4,4,2,9,2,7,13,1,12,4,31,1,1,17,5,5,1,1,8,1,1,1,2,1,2,3,2,1,1,2,1,3,2,3,3,2,2,2,2,1,2,2,2,2,1,2,2,2,2,2,1,1,1,2,3,2,2,1,3,1,1,3,1,2,1,2,1,1,1,3,2,1,1,9,2,2,1,1,1,2,1,1,6,12,1,1,21,19,1,2,5,4,1,1,1,1,1,7,7,6,1,4,15,5,6,2,1,4,2,2,6,2,5,1,1,9,17,13,7,2,1,6,3,5,5,6,2,4,3,2,1,5,12,5,4,10,6,2,9,1,1,5,7,3,5,5,5,2,5,1,2,3,3,1,2,2,1,1,1,1,3,5,1,1,1,1,1,6,6,1,1,2,1,1,4,4,4,1,1,1,1,1,1,2,2,2,1,1,1,1,2,1,1,2,2,3,3,3,3,1,1,1,1,1,1,1,1,1,1,1],"colour":["#666","#666","#666","#666","#666","#666","#666","#666","#666","#666","#666","#666","#666","#666","#666","#666","#666","#666","#666","#666","#666","#666","#666","#666","#666","#666","#666","#666","#666","#666","#666","#666","#666","#666","#666","#666","#666","#666","#666","#666","#666","#666","#666","#666","#666","#666","#666","#666","#666","#666","#666","#666","#666","#666","#666","#666","#666","#666","#666","#666","#666","#666","#666","#666","#666","#666","#666","#666","#666","#666","#666","#666","#666","#666","#666","#666","#666","#666","#666","#666","#666","#666","#666","#666","#666","#666","#666","#666","#666","#666","#666","#666","#666","#666","#666","#666","#666","#666","#666","#666","#666","#666","#666","#666","#666","#666","#666","#666","#666","#666","#666","#666","#666","#666","#666","#666","#666","#666","#666","#666","#666","#666","#666","#666","#666","#666","#666","#666","#666","#666","#666","#666","#666","#666","#666","#666","#666","#666","#666","#666","#666","#666","#666","#666","#666","#666","#666","#666","#666","#666","#666","#666","#666","#666","#666","#666","#666","#666","#666","#666","#666","#666","#666","#666","#666","#666","#666","#666","#666","#666","#666","#666","#666","#666","#666","#666","#666","#666","#666","#666","#666","#666","#666","#666","#666","#666","#666","#666","#666","#666","#666","#666","#666","#666","#666","#666","#666","#666","#666","#666","#666","#666","#666","#666","#666","#666","#666","#666","#666","#666","#666","#666","#666","#666","#666","#666","#666","#666","#666","#666","#666","#666","#666","#666","#666","#666","#666","#666","#666","#666","#666","#666","#666","#666","#666","#666","#666","#666","#666","#666","#666","#666","#666","#666","#666","#666","#666","#666","#666","#666","#666","#666","#666","#666"]},"nodes":{"name":["Myriel","Napoleon","Mlle.Baptistine","Mme.Magloire","CountessdeLo","Geborand","Champtercier","Cravatte","Count","OldMan","Labarre","Valjean","Marguerite","Mme.deR","Isabeau","Gervais","Tholomyes","Listolier","Fameuil","Blacheville","Favourite","Dahlia","Zephine","Fantine","Mme.Thenardier","Thenardier","Cosette","Javert","Fauchelevent","Bamatabois","Perpetue","Simplice","Scaufflaire","Woman1","Judge","Champmathieu","Brevet","Chenildieu","Cochepaille","Pontmercy","Boulatruelle","Eponine","Anzelma","Woman2","MotherInnocent","Gribier","Jondrette","Mme.Burgon","Gavroche","Gillenormand","Magnon","Mlle.Gillenormand","Mme.Pontmercy","Mlle.Vaubois","Lt.Gillenormand","Marius","BaronessT","Mabeuf","Enjolras","Combeferre","Prouvaire","Feuilly","Courfeyrac","Bahorel","Bossuet","Joly","Grantaire","MotherPlutarch","Gueulemer","Babet","Claquesous","Montparnasse","Toussaint","Child1","Child2","Brujon","Mme.Hucheloup"],"group":[1,1,1,1,1,1,1,1,1,1,2,2,3,2,2,2,3,3,3,3,3,3,3,3,4,4,5,4,0,2,3,2,2,2,2,2,2,2,2,4,6,4,4,5,0,0,7,7,8,5,5,5,5,5,5,8,5,8,8,8,8,8,8,8,8,8,8,9,4,4,4,4,5,10,10,4,8]},"options":{"NodeID":"name","Group":"group","colourScale":"d3.scaleOrdinal(d3.schemeCategory20);","fontSize":7,"fontFamily":"serif","clickTextSize":17.5,"linkDistance":50,"linkWidth":"function(d) { return Math.sqrt(d.value); }","charge":-30,"opacity":0.4,"zoom":false,"legend":false,"arrows":false,"nodesize":false,"radiusCalculation":" Math.sqrt(d.nodesize)+6","bounded":false,"opacityNoHover":0,"clickAction":null}},"evals":[],"jsHooks":[]}</script>
+<div id="htmlwidget-e48985133c75233626e6" style="width:672px;height:480px;" class="forceNetwork html-widget"></div>
+<script type="application/json" data-for="htmlwidget-e48985133c75233626e6">{"x":{"links":{"source":[1,2,3,3,4,5,6,7,8,9,11,11,11,11,12,13,14,15,17,18,18,19,19,19,20,20,20,20,21,21,21,21,21,22,22,22,22,22,22,23,23,23,23,23,23,23,23,23,24,24,25,25,25,26,26,26,26,27,27,27,27,27,28,28,29,29,29,30,31,31,31,31,32,33,33,34,34,35,35,35,36,36,36,36,37,37,37,37,37,38,38,38,38,38,38,39,40,41,41,42,42,42,43,43,43,44,44,45,47,48,48,48,48,49,49,50,50,51,51,51,52,52,53,54,54,54,55,55,55,55,55,55,55,55,55,55,56,56,57,57,57,58,58,58,58,58,59,59,59,59,60,60,60,61,61,61,61,61,61,62,62,62,62,62,62,62,62,63,63,63,63,63,63,63,63,64,64,64,64,64,64,64,64,64,64,65,65,65,65,65,65,65,65,65,65,66,66,66,66,66,66,66,66,66,67,68,68,68,68,68,68,69,69,69,69,69,69,69,70,70,70,70,70,70,70,70,71,71,71,71,71,71,71,71,72,72,72,73,74,74,75,75,75,75,75,75,75,76,76,76,76,76,76,76],"target":[0,0,0,2,0,0,0,0,0,0,10,3,2,0,11,11,11,11,16,16,17,16,17,18,16,17,18,19,16,17,18,19,20,16,17,18,19,20,21,16,17,18,19,20,21,22,12,11,23,11,24,23,11,24,11,16,25,11,23,25,24,26,11,27,23,27,11,23,30,11,23,27,11,11,27,11,29,11,34,29,34,35,11,29,34,35,36,11,29,34,35,36,37,11,29,25,25,24,25,41,25,24,11,26,27,28,11,28,46,47,25,27,11,26,11,49,24,49,26,11,51,39,51,51,49,26,51,49,39,54,26,11,16,25,41,48,49,55,55,41,48,55,48,27,57,11,58,55,48,57,48,58,59,48,58,60,59,57,55,55,58,59,48,57,41,61,60,59,48,62,57,58,61,60,55,55,62,48,63,58,61,60,59,57,11,63,64,48,62,58,61,60,59,57,55,64,58,59,62,65,48,63,61,60,57,25,11,24,27,48,41,25,68,11,24,27,48,41,25,69,68,11,24,27,41,58,27,69,68,70,11,48,41,25,26,27,11,48,48,73,69,68,25,48,41,70,71,64,65,66,63,62,48,58],"value":[1,8,10,6,1,1,1,1,2,1,1,3,3,5,1,1,1,1,4,4,4,4,4,4,3,3,3,4,3,3,3,3,5,3,3,3,3,4,4,3,3,3,3,4,4,4,2,9,2,7,13,1,12,4,31,1,1,17,5,5,1,1,8,1,1,1,2,1,2,3,2,1,1,2,1,3,2,3,3,2,2,2,2,1,2,2,2,2,1,2,2,2,2,2,1,1,1,2,3,2,2,1,3,1,1,3,1,2,1,2,1,1,1,3,2,1,1,9,2,2,1,1,1,2,1,1,6,12,1,1,21,19,1,2,5,4,1,1,1,1,1,7,7,6,1,4,15,5,6,2,1,4,2,2,6,2,5,1,1,9,17,13,7,2,1,6,3,5,5,6,2,4,3,2,1,5,12,5,4,10,6,2,9,1,1,5,7,3,5,5,5,2,5,1,2,3,3,1,2,2,1,1,1,1,3,5,1,1,1,1,1,6,6,1,1,2,1,1,4,4,4,1,1,1,1,1,1,2,2,2,1,1,1,1,2,1,1,2,2,3,3,3,3,1,1,1,1,1,1,1,1,1,1,1],"colour":["#666","#666","#666","#666","#666","#666","#666","#666","#666","#666","#666","#666","#666","#666","#666","#666","#666","#666","#666","#666","#666","#666","#666","#666","#666","#666","#666","#666","#666","#666","#666","#666","#666","#666","#666","#666","#666","#666","#666","#666","#666","#666","#666","#666","#666","#666","#666","#666","#666","#666","#666","#666","#666","#666","#666","#666","#666","#666","#666","#666","#666","#666","#666","#666","#666","#666","#666","#666","#666","#666","#666","#666","#666","#666","#666","#666","#666","#666","#666","#666","#666","#666","#666","#666","#666","#666","#666","#666","#666","#666","#666","#666","#666","#666","#666","#666","#666","#666","#666","#666","#666","#666","#666","#666","#666","#666","#666","#666","#666","#666","#666","#666","#666","#666","#666","#666","#666","#666","#666","#666","#666","#666","#666","#666","#666","#666","#666","#666","#666","#666","#666","#666","#666","#666","#666","#666","#666","#666","#666","#666","#666","#666","#666","#666","#666","#666","#666","#666","#666","#666","#666","#666","#666","#666","#666","#666","#666","#666","#666","#666","#666","#666","#666","#666","#666","#666","#666","#666","#666","#666","#666","#666","#666","#666","#666","#666","#666","#666","#666","#666","#666","#666","#666","#666","#666","#666","#666","#666","#666","#666","#666","#666","#666","#666","#666","#666","#666","#666","#666","#666","#666","#666","#666","#666","#666","#666","#666","#666","#666","#666","#666","#666","#666","#666","#666","#666","#666","#666","#666","#666","#666","#666","#666","#666","#666","#666","#666","#666","#666","#666","#666","#666","#666","#666","#666","#666","#666","#666","#666","#666","#666","#666","#666","#666","#666","#666","#666","#666","#666","#666","#666","#666","#666","#666"]},"nodes":{"name":["Myriel","Napoleon","Mlle.Baptistine","Mme.Magloire","CountessdeLo","Geborand","Champtercier","Cravatte","Count","OldMan","Labarre","Valjean","Marguerite","Mme.deR","Isabeau","Gervais","Tholomyes","Listolier","Fameuil","Blacheville","Favourite","Dahlia","Zephine","Fantine","Mme.Thenardier","Thenardier","Cosette","Javert","Fauchelevent","Bamatabois","Perpetue","Simplice","Scaufflaire","Woman1","Judge","Champmathieu","Brevet","Chenildieu","Cochepaille","Pontmercy","Boulatruelle","Eponine","Anzelma","Woman2","MotherInnocent","Gribier","Jondrette","Mme.Burgon","Gavroche","Gillenormand","Magnon","Mlle.Gillenormand","Mme.Pontmercy","Mlle.Vaubois","Lt.Gillenormand","Marius","BaronessT","Mabeuf","Enjolras","Combeferre","Prouvaire","Feuilly","Courfeyrac","Bahorel","Bossuet","Joly","Grantaire","MotherPlutarch","Gueulemer","Babet","Claquesous","Montparnasse","Toussaint","Child1","Child2","Brujon","Mme.Hucheloup"],"group":[1,1,1,1,1,1,1,1,1,1,2,2,3,2,2,2,3,3,3,3,3,3,3,3,4,4,5,4,0,2,3,2,2,2,2,2,2,2,2,4,6,4,4,5,0,0,7,7,8,5,5,5,5,5,5,8,5,8,8,8,8,8,8,8,8,8,8,9,4,4,4,4,5,10,10,4,8]},"options":{"NodeID":"name","Group":"group","colourScale":"d3.scaleOrdinal(d3.schemeCategory20);","fontSize":7,"fontFamily":"serif","clickTextSize":17.5,"linkDistance":50,"linkWidth":"function(d) { return Math.sqrt(d.value); }","charge":-30,"opacity":0.4,"zoom":false,"legend":false,"arrows":false,"nodesize":false,"radiusCalculation":" Math.sqrt(d.nodesize)+6","bounded":false,"opacityNoHover":0,"clickAction":null}},"evals":[],"jsHooks":[]}</script>
 </div>
 </div>
 
